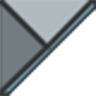
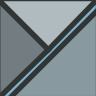
Fix iPad edition

diff --git a/Resources/index.html b/Resources/index.html
@@ -6,7 +6,7 @@
         <meta name="apple-mobile-web-app-status-bar-style" content="black" />
         <title>Khet</title>
         <link rel="stylesheet" media="all" href="css/khet.css" />
-        <!--link rel="stylesheet" media="screen and (min-device-width: 480px)" href="css/ipad.css" /-->
+        <link rel="stylesheet" media="screen and (min-device-width: 480px)" href="css/ipad.css" />
         <link rel="apple-touch-icon" href="icon.png" />
         <link rel="apple-touch-startup-image" href="Default.jpg" />
         <script type="text/javascript" src="js/utils.js"></script>

diff --git a/Resources/js/khet.js b/Resources/js/khet.js
@@ -44,7 +44,7 @@
         laserEl = $('laser');
     
     // Board specific settings
-    var cellSize = window.innerWidth > 480 ? 37: 37, //FIXME: 40
+    var cellSize = window.innerWidth > 480 ? 96: 37, //FIXME: 40
         width = 10,
         height = 8;
     
